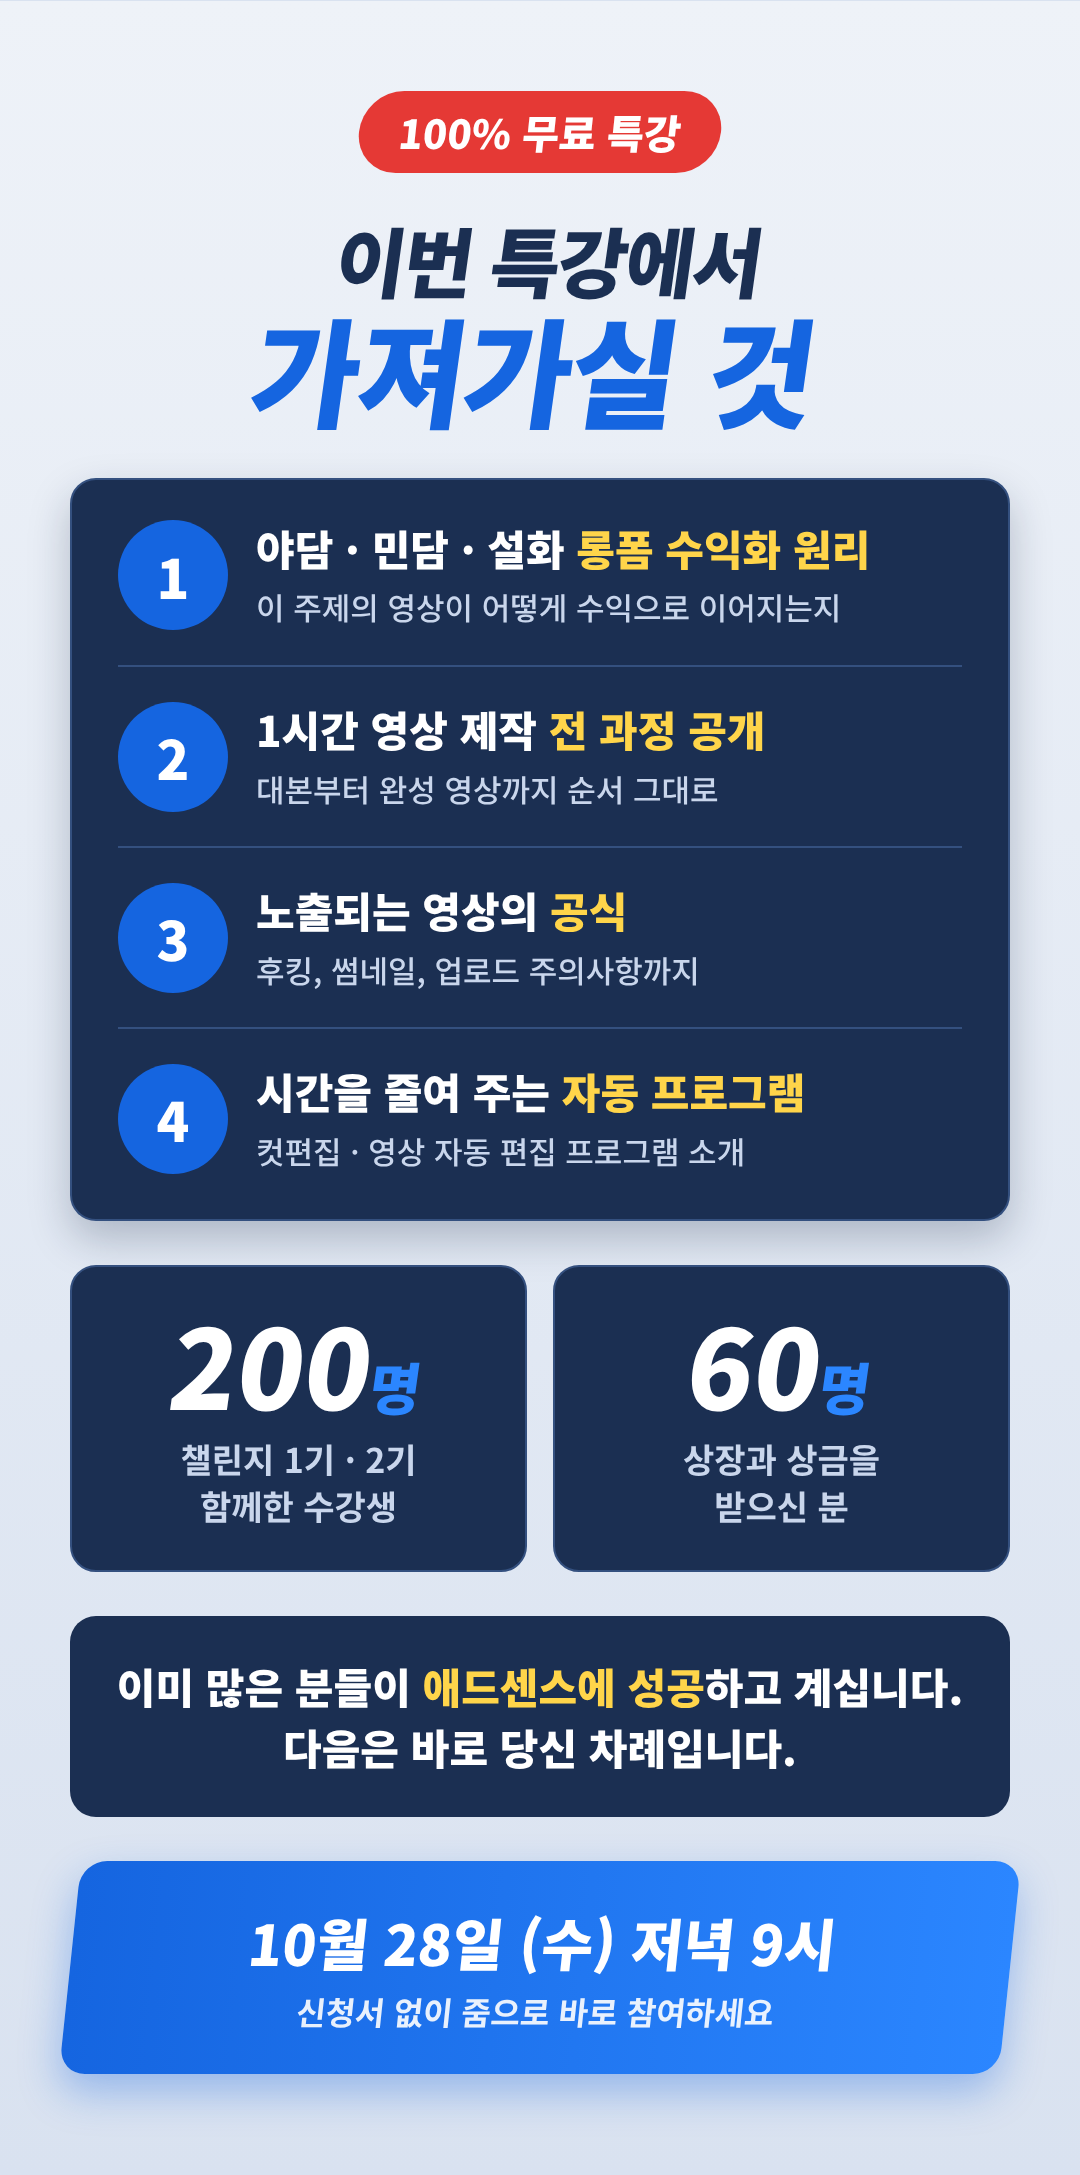
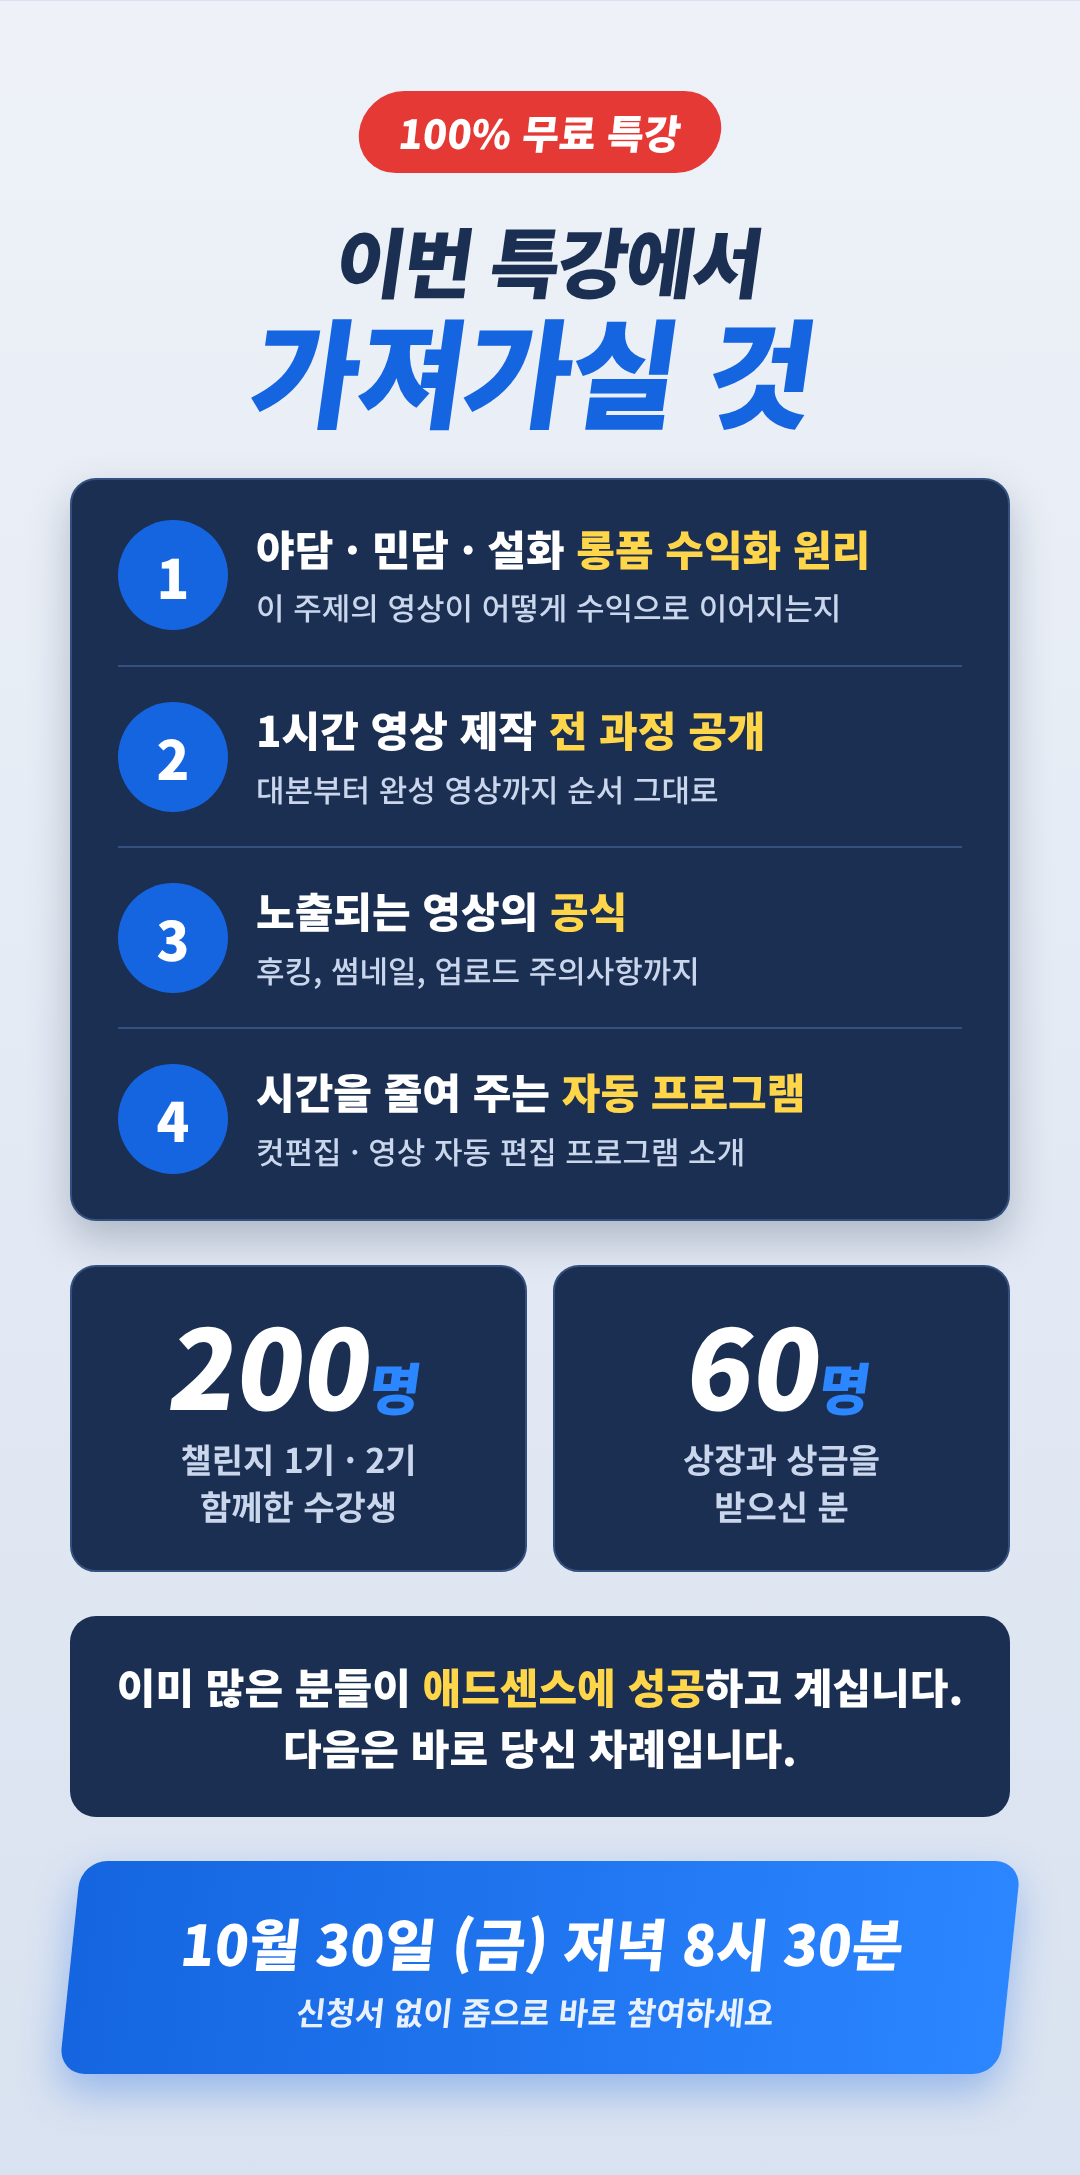
무료 특강 날짜를 10월 30일 금요일 저녁 8시 30분으로 변경
Claude-Session: https://claude.ai/code/session_013xUGefzZAysaz3RxF6ietr

Changed region(s): [[0.1833, 0.8625, 0.825, 0.9241]]

diff --git a/standalone/free-lecture.html b/standalone/free-lecture.html
@@ -116,7 +116,7 @@
     <button type="button" class="sound" id="sound-on">🔊 소리 켜고 처음부터 보기</button>
   </div>
 
-  <div class="when"><span>무료 특강</span><b>10월 28일 (수) 저녁 9시</b><small>줌(Zoom) 온라인 · 신청서 없이 바로 참여</small></div>
+  <div class="when"><span>무료 특강</span><b>10월 30일 (금) 저녁 8시 30분</b><small>줌(Zoom) 온라인 · 신청서 없이 바로 참여</small></div>
 
   <button type="button" class="thumb" id="open-landing" aria-label="무료 특강 소개 보기">
     <img src="media/free-thumb.jpg" alt="무료 특강 유튜브 1개월 챌린지 · 감동민담 · 야담 · 설화" width="966" height="483">
@@ -140,7 +140,7 @@
     <img src="media/free-06.png" alt="이번 특강에서 가져가실 것" loading="lazy">
   </div>
   <div class="end">
-    <p><b>10월 28일 (수) 저녁 9시</b><br>신청서 없이 버튼 한 번이면 특강에 참여하실 수 있어요.</p>
+    <p><b>10월 30일 (금) 저녁 8시 30분</b><br>신청서 없이 버튼 한 번이면 특강에 참여하실 수 있어요.</p>
     <a class="join" data-zoom href="#">🎥 특강 바로 참여하기</a>
     <small>버튼을 누르면 줌(Zoom)으로 바로 연결됩니다</small>
   </div>

diff --git a/standalone/free-lecture/source.html b/standalone/free-lecture/source.html
@@ -51,7 +51,7 @@
 <!-- 1. 문제 제기 -->
 <section class="sheet" id="f1">
   <div class="brand">딥마크온 클래스 무료 특강</div>
-  <div class="free"><span class="tag">10월 28일 (수) 저녁 9시</span></div>
+  <div class="free"><span class="tag">10월 30일 (금) 저녁 8시 30분</span></div>
   <h1 class="big"><span class="sm dark">열심히 만드는데</span>왜 내 영상은<br>안 될까요?</h1>
   <p class="q">혹시 지금 이런 고민을 하고 계신가요?<br><b>3가지 중 하나라도 해당된다면</b><br>이번 특강을 꼭 보셔야 합니다.</p>
   <div class="steps">
@@ -135,7 +135,7 @@
     <div class="stat"><div class="n">60<span>명</span></div><div class="t">상장과 상금을<br>받으신 분</div></div>
   </div>
   <div class="verdict">이미 많은 분들이 <em>애드센스에 성공</em>하고 계십니다.<br>다음은 바로 당신 차례입니다.</div>
-  <div class="banner">10월 28일 (수) 저녁 9시<small>신청서 없이 줌으로 바로 참여하세요</small></div>
+  <div class="banner">10월 30일 (금) 저녁 8시 30분<small>신청서 없이 줌으로 바로 참여하세요</small></div>
 </section>
 
 <!-- 임시 썸네일 (실제 썸네일을 받으면 교체) -->
